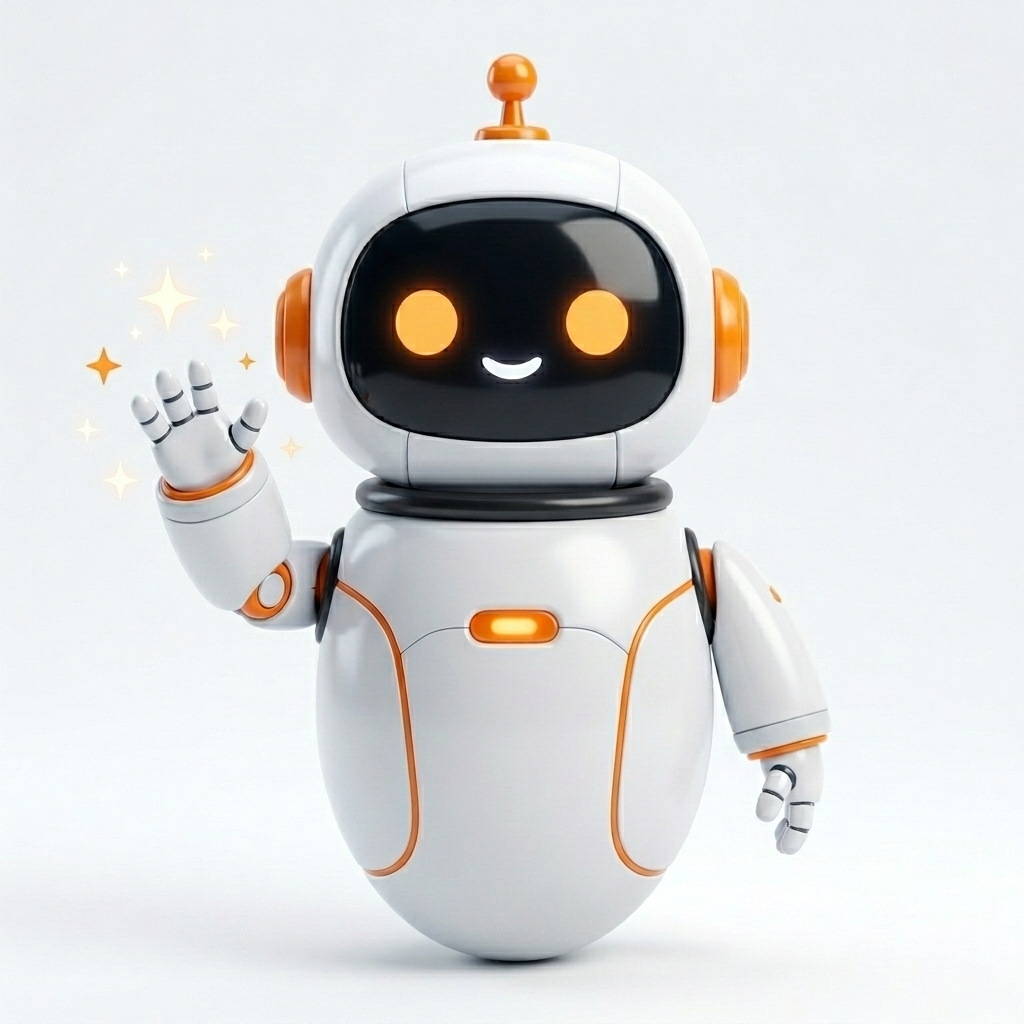
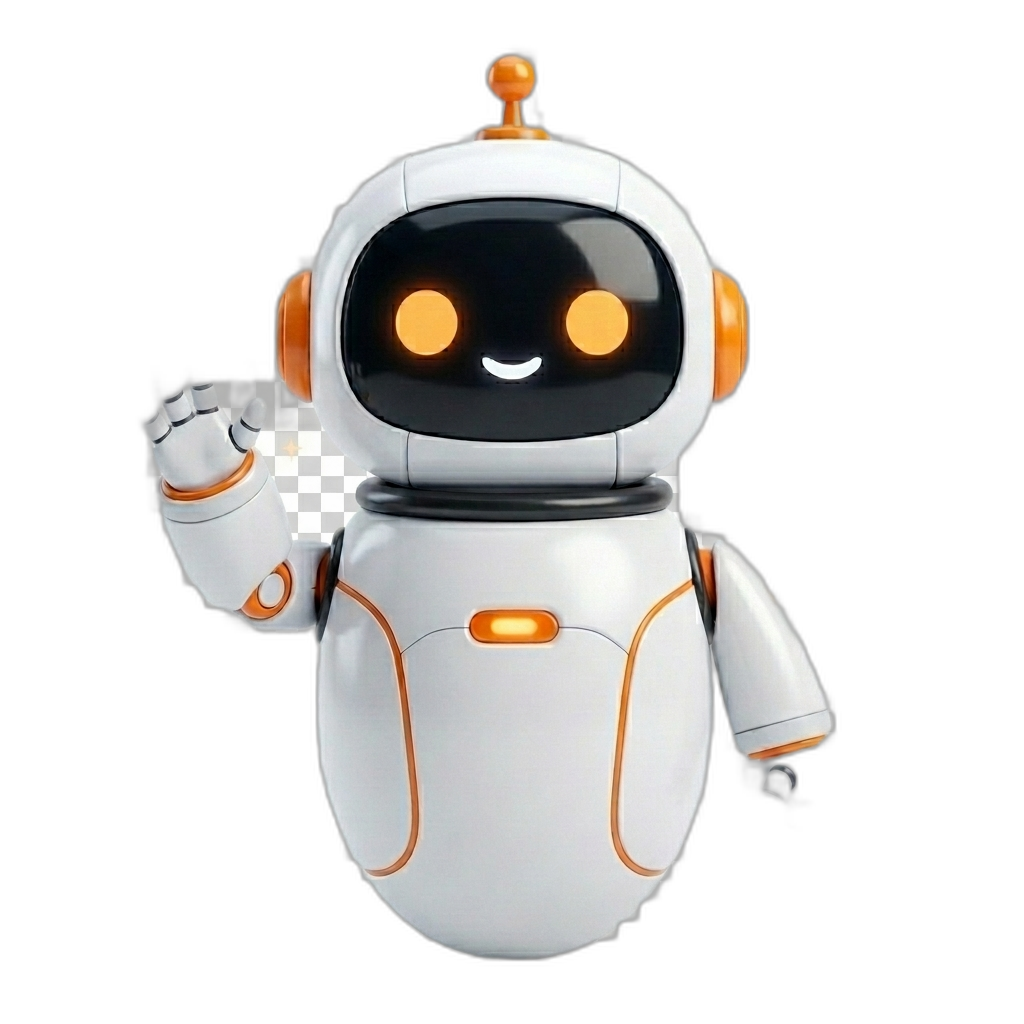
UI Refactor: Update Cambridge Cams layout and adjust Robot mascot position

diff --git a/src/app/page.tsx b/src/app/page.tsx
@@ -82,90 +82,124 @@ export default function Home() {
           <p className="mt-3 text-center text-[15px] text-[#5a6282]">Full access to all official Cambridge IELTS practice tests.</p>
 
           {/* Book covers */}
-          <div className="mt-10 flex items-end justify-center gap-3 md:gap-5 flex-wrap">
+          <div className="mt-10 flex items-center justify-center gap-3 md:gap-4 flex-wrap">
             {[
-              { num: "9", color: "dark" },
-              { num: "10", color: "dark" },
-              { num: "11", color: "dark" },
-              { num: "12", color: "dark" },
-              { num: "13", color: "dark" },
+              { num: "9", color: "#a78bfa" },
+              { num: "10", color: "#818cf8" },
+              { num: "11", color: "#c084fc" },
+              { num: "12", color: "#a78bfa" },
+              { num: "13", color: "#818cf8" },
             ].map((book) => (
               <div
                 key={book.num}
-                className="group relative w-[100px] md:w-[120px] aspect-[3/4] rounded-lg overflow-hidden cursor-pointer transition-transform duration-300 hover:scale-105 hover:-translate-y-1"
+                className="group relative w-[90px] md:w-[115px] aspect-[3/4.2] rounded-lg overflow-hidden cursor-pointer transition-transform duration-300 hover:scale-105 hover:-translate-y-1 shadow-[0_12px_28px_rgba(16,21,60,0.25)]"
                 style={{
-                  background: "linear-gradient(160deg, #1a1f4e 0%, #12163d 40%, #1e2460 100%)",
-                  boxShadow: "0 12px 28px rgba(16,21,60,0.35), inset -3px 0 6px rgba(255,255,255,0.05)",
+                  background: `linear-gradient(145deg, #111424 0%, #151932 60%, ${book.color}40 100%)`,
+                  border: "1px solid rgba(255,255,255,0.05)"
                 }}
               >
                 {/* Spine effect */}
-                <div className="absolute left-0 top-0 h-full w-[8px]" style={{ background: "linear-gradient(180deg, #080c28 0%, #131744 100%)" }} />
-                {/* Top overlay */}
-                <div className="absolute inset-x-0 top-0 h-[40%] bg-gradient-to-b from-black/30 to-transparent" />
+                <div className="absolute left-0 top-0 h-full w-[6px]" style={{ background: "linear-gradient(90deg, rgba(255,255,255,0.1) 0%, rgba(0,0,0,0.2) 100%)" }} />
+                
                 {/* Content */}
-                <div className="relative z-10 flex flex-col items-center justify-center h-full px-2 py-3">
-                  <div className="rounded border border-white/20 bg-black/25 px-2 py-0.5 text-[7px] md:text-[8px] font-bold tracking-[0.15em] text-white/80 mb-1">
-                    CAMBRIDGE
+                <div className="relative z-10 flex flex-col items-start justify-start h-full pl-3 pr-2 py-3 w-full">
+                  {/* Top: Logo and Shield */}
+                  <div className="flex justify-between w-full items-start mb-1.5">
+                    <div className="flex flex-col">
+                      <span className="text-[5px] md:text-[6px] font-bold tracking-[0.05em] text-white/90 leading-none">CAMBRIDGE</span>
+                      <span className="text-[4px] md:text-[5px] font-medium tracking-wide text-white/70 leading-none mt-0.5">UNIVERSITY PRESS</span>
+                    </div>
+                    {/* Gold Shield Placeholder */}
+                    <div className="w-2.5 h-3 bg-gradient-to-br from-[#f2d06b] to-[#b8860b] rounded-b-sm shadow-sm" />
                   </div>
-                  <div className="text-[8px] md:text-[9px] font-medium tracking-[0.1em] text-white/60">CAMBRIDGE</div>
-                  <div className="text-2xl md:text-3xl font-extrabold text-white leading-none mt-1">IELTS</div>
-                  <div className="text-xl md:text-2xl font-black text-white mt-1">{book.num}</div>
-                  <div className="text-[7px] md:text-[8px] font-semibold tracking-[0.08em] text-white/60 mt-2">ACADEMIC</div>
+                  
+                  <div className="text-[6.5px] md:text-[7.5px] font-medium tracking-[0.1em] text-white/90 mt-1">CAMBRIDGE</div>
+                  <div className="text-[22px] md:text-[26px] font-extrabold text-white leading-none mt-0.5 tracking-tight font-sans">IELTS</div>
+                  
+                  {/* Number */}
+                  <div className="text-[36px] md:text-[44px] font-normal mt-0.5 leading-none" style={{ color: book.color }}>
+                    {book.num}
+                  </div>
+                  
+                  {/* Academic */}
+                  <div className="text-[5px] md:text-[6px] font-semibold tracking-[0.1em] text-white/80 mt-auto mb-1">ACADEMIC</div>
+                  
+                  {/* Bottom right graphic */}
+                  <div className="absolute bottom-2 right-2 w-8 h-8 opacity-50 flex items-end justify-end">
+                    <svg viewBox="0 0 24 24" fill="none" stroke="currentColor" strokeWidth="1" className="w-full h-full" style={{ color: book.color }}>
+                       <circle cx="12" cy="12" r="8" strokeDasharray="2 2" />
+                       <circle cx="12" cy="12" r="4" />
+                       <path d="M12 2v4M12 18v4M2 12h4M18 12h4" />
+                    </svg>
+                  </div>
                 </div>
-                {/* Decorative circle */}
-                <div className="absolute bottom-3 right-2 w-6 h-6 rounded-full border border-white/10 opacity-40" />
               </div>
             ))}
 
             {/* Dots separator */}
-            <div className="flex items-center justify-center w-[40px] md:w-[50px] self-center">
-              <span className="text-2xl md:text-3xl font-bold text-[#8b90b0] tracking-[0.15em]">···</span>
+            <div className="flex items-center justify-center w-[30px] md:w-[40px] self-center">
+              <span className="text-xl md:text-2xl font-bold text-[#141c41] tracking-[0.15em]">...</span>
             </div>
 
             {/* Book 20 - Orange */}
             <div
-              className="group relative w-[100px] md:w-[120px] aspect-[3/4] rounded-lg overflow-hidden cursor-pointer transition-transform duration-300 hover:scale-105 hover:-translate-y-1"
+              className="group relative w-[90px] md:w-[115px] aspect-[3/4.2] rounded-lg overflow-hidden cursor-pointer transition-transform duration-300 hover:scale-105 hover:-translate-y-1 shadow-[0_12px_28px_rgba(230,90,16,0.25)]"
               style={{
-                background: "linear-gradient(160deg, #ff9f5a 0%, #ff7a2d 40%, #e85a10 100%)",
-                boxShadow: "0 12px 28px rgba(230,90,16,0.35), inset -3px 0 6px rgba(255,255,255,0.1)",
+                background: "linear-gradient(145deg, #ff8c42 0%, #f46217 50%, #d63d00 100%)",
+                border: "1px solid rgba(255,255,255,0.1)"
               }}
             >
-              <div className="absolute left-0 top-0 h-full w-[8px]" style={{ background: "linear-gradient(180deg, #c44e08 0%, #e06510 100%)" }} />
-              <div className="absolute inset-x-0 top-0 h-[40%] bg-gradient-to-b from-black/15 to-transparent" />
-              <div className="relative z-10 flex flex-col items-center justify-center h-full px-2 py-3">
-                <div className="rounded border border-white/30 bg-black/15 px-2 py-0.5 text-[7px] md:text-[8px] font-bold tracking-[0.15em] text-white/90 mb-1">
-                  CAMBRIDGE
+              <div className="absolute left-0 top-0 h-full w-[6px]" style={{ background: "linear-gradient(90deg, rgba(255,255,255,0.2) 0%, rgba(0,0,0,0.15) 100%)" }} />
+              <div className="relative z-10 flex flex-col items-start justify-start h-full pl-3 pr-2 py-3 w-full">
+                <div className="flex justify-between w-full items-start mb-1.5">
+                  <div className="flex flex-col">
+                    <span className="text-[5px] md:text-[6px] font-bold tracking-[0.05em] text-white/90 leading-none">CAMBRIDGE</span>
+                    <span className="text-[4px] md:text-[5px] font-medium tracking-wide text-white/80 leading-none mt-0.5">UNIVERSITY PRESS</span>
+                  </div>
+                  <div className="w-2.5 h-3 bg-gradient-to-br from-[#f2d06b] to-[#b8860b] rounded-b-sm shadow-sm" />
                 </div>
-                <div className="text-[8px] md:text-[9px] font-medium tracking-[0.1em] text-white/70">CAMBRIDGE</div>
-                <div className="text-2xl md:text-3xl font-extrabold text-white leading-none mt-1">IELTS</div>
-                <div className="text-xl md:text-2xl font-black text-white mt-1">20</div>
-                <div className="text-[7px] md:text-[8px] font-semibold tracking-[0.08em] text-white/70 mt-2">ACADEMIC</div>
+                
+                <div className="text-[6.5px] md:text-[7.5px] font-medium tracking-[0.1em] text-white/90 mt-1">CAMBRIDGE</div>
+                <div className="text-[22px] md:text-[26px] font-extrabold text-white leading-none mt-0.5 tracking-tight font-sans">IELTS</div>
+                
+                <div className="text-[36px] md:text-[44px] font-normal mt-0.5 leading-none text-white">
+                  20
+                </div>
+                
+                <div className="text-[5px] md:text-[6px] font-semibold tracking-[0.1em] text-white/90 mt-auto mb-1">ACADEMIC</div>
+                
+                <div className="absolute bottom-2 right-2 w-8 h-8 opacity-40 flex items-end justify-end">
+                  <svg viewBox="0 0 24 24" fill="none" stroke="white" strokeWidth="1" className="w-full h-full">
+                     <circle cx="12" cy="12" r="8" strokeDasharray="2 2" />
+                     <circle cx="12" cy="12" r="4" />
+                     <path d="M12 2v4M12 18v4M2 12h4M18 12h4" />
+                  </svg>
+                </div>
               </div>
             </div>
           </div>
 
           {/* Timeline progress bar */}
-          <div className="mt-10 flex items-center justify-center px-2 md:px-8">
+          <div className="mt-10 flex items-center justify-center w-full max-w-[800px] mx-auto px-2 md:px-4">
             {/* Number 9 circle */}
-            <div className="flex-shrink-0 w-10 h-10 rounded-full bg-[#1a1f4e] flex items-center justify-center text-white text-sm font-bold shadow-[0_4px_12px_rgba(26,31,78,0.4)]">
+            <div className="flex-shrink-0 w-8 h-8 md:w-10 md:h-10 rounded-full bg-[#7c3aed] flex items-center justify-center text-white text-sm md:text-base font-bold shadow-[0_4px_12px_rgba(124,58,237,0.4)]">
               9
             </div>
-            {/* Progress line */}
-            <div className="flex-1 h-[3px] mx-2 relative">
-              <div className="absolute inset-0 rounded-full bg-[#e0e3ef]" />
-              <div className="absolute left-0 top-0 h-full rounded-full w-[45%]" style={{ background: "linear-gradient(90deg, #1a1f4e, #3b4a9e)" }} />
-              {/* Dots on the line */}
-              <div className="absolute inset-0 flex items-center justify-between px-[2%]">
-                {Array.from({ length: 12 }).map((_, i) => (
-                  <div
-                    key={i}
-                    className={`w-[6px] h-[6px] rounded-full ${i < 5 ? "bg-[#1a1f4e]" : "bg-[#d0d3e2]"}`}
-                  />
-                ))}
-              </div>
-            </div>
+            
+            {/* Progress line with dots */}
+            <div 
+              className="flex-1 h-[6px] mx-2 md:mx-4" 
+              style={{
+                background: "linear-gradient(90deg, #7c3aed 0%, #ffab66 100%)",
+                WebkitMaskImage: "radial-gradient(circle, black 2.5px, transparent 2.5px), linear-gradient(black, black)",
+                WebkitMaskSize: "28px 6px, 100% 2px",
+                WebkitMaskPosition: "center, center",
+                WebkitMaskRepeat: "repeat-x, no-repeat",
+              }} 
+            />
+            
             {/* Number 20 circle */}
-            <div className="flex-shrink-0 w-10 h-10 rounded-full bg-[#ff7a00] flex items-center justify-center text-white text-sm font-bold shadow-[0_4px_12px_rgba(255,122,0,0.4)]">
+            <div className="flex-shrink-0 w-8 h-8 md:w-10 md:h-10 rounded-full bg-[#ff7a00] flex items-center justify-center text-white text-sm md:text-base font-bold shadow-[0_4px_12px_rgba(255,122,0,0.4)]">
               20
             </div>
           </div>
@@ -173,34 +207,34 @@ export default function Home() {
           {/* Feature badges */}
           <div className="mt-10 flex flex-wrap items-center justify-center gap-6 md:gap-10">
             <div className="flex items-center gap-2 text-[#4b5472]">
-              <svg className="w-5 h-5 text-[#5a6282]" fill="none" viewBox="0 0 24 24" stroke="currentColor" strokeWidth={2}>
+              <svg className="w-5 h-5 text-[#8b90b0]" fill="none" viewBox="0 0 24 24" stroke="currentColor" strokeWidth={1.5}>
                 <path strokeLinecap="round" strokeLinejoin="round" d="M9 12h6m-6 4h6m2 5H7a2 2 0 01-2-2V5a2 2 0 012-2h5.586a1 1 0 01.707.293l5.414 5.414a1 1 0 01.293.707V19a2 2 0 01-2 2z" />
               </svg>
-              <span className="text-sm font-semibold">Official Tests</span>
+              <span className="text-sm font-semibold text-[#141c41]">Official Tests</span>
             </div>
             <div className="flex items-center gap-2 text-[#4b5472]">
-              <svg className="w-5 h-5 text-[#5a6282]" fill="none" viewBox="0 0 24 24" stroke="currentColor" strokeWidth={2}>
+              <svg className="w-5 h-5 text-[#8b90b0]" fill="none" viewBox="0 0 24 24" stroke="currentColor" strokeWidth={1.5}>
                 <path strokeLinecap="round" strokeLinejoin="round" d="M12 8v4l3 3m6-3a9 9 0 11-18 0 9 9 0 0118 0z" />
               </svg>
-              <span className="text-sm font-semibold">Real Exam Experience</span>
+              <span className="text-sm font-semibold text-[#141c41]">Real Exam Experience</span>
             </div>
             <div className="flex items-center gap-2 text-[#4b5472]">
-              <svg className="w-5 h-5 text-[#5a6282]" fill="none" viewBox="0 0 24 24" stroke="currentColor" strokeWidth={2}>
+              <svg className="w-5 h-5 text-[#8b90b0]" fill="none" viewBox="0 0 24 24" stroke="currentColor" strokeWidth={1.5}>
                 <path strokeLinecap="round" strokeLinejoin="round" d="M10.325 4.317c.426-1.756 2.924-1.756 3.35 0a1.724 1.724 0 002.573 1.066c1.543-.94 3.31.826 2.37 2.37a1.724 1.724 0 001.066 2.573c1.756.426 1.756 2.924 0 3.35a1.724 1.724 0 00-1.066 2.573c.94 1.543-.826 3.31-2.37 2.37a1.724 1.724 0 00-2.573 1.066c-.426 1.756-2.924 1.756-3.35 0a1.724 1.724 0 00-2.573-1.066c-1.543.94-3.31-.826-2.37-2.37a1.724 1.724 0 00-1.066-2.573c-1.756-.426-1.756-2.924 0-3.35a1.724 1.724 0 001.066-2.573c-.94-1.543.826-3.31 2.37-2.37.996.608 2.296.07 2.572-1.065z" />
                 <path strokeLinecap="round" strokeLinejoin="round" d="M15 12a3 3 0 11-6 0 3 3 0 016 0z" />
               </svg>
-              <span className="text-sm font-semibold">AI Evaluation</span>
+              <span className="text-sm font-semibold text-[#141c41]">AI Evaluation</span>
             </div>
             <div className="flex items-center gap-2 text-[#4b5472]">
-              <svg className="w-5 h-5 text-[#5a6282]" fill="none" viewBox="0 0 24 24" stroke="currentColor" strokeWidth={2}>
+              <svg className="w-5 h-5 text-[#8b90b0]" fill="none" viewBox="0 0 24 24" stroke="currentColor" strokeWidth={1.5}>
                 <path strokeLinecap="round" strokeLinejoin="round" d="M14.828 14.828a4 4 0 01-5.656 0M9 10h.01M15 10h.01M21 12a9 9 0 11-18 0 9 9 0 0118 0z" />
               </svg>
-              <span className="text-sm font-semibold">Detailed Feedback</span>
+              <span className="text-sm font-semibold text-[#141c41]">Detailed Feedback</span>
             </div>
           </div>
         </section>
 
-        <section className="mb-6 grid gap-6 md:grid-cols-[1fr_1.6fr] items-center">
+        <section className="mb-6 grid gap-6 md:grid-cols-2 items-center">
           {/* Left side - Text content */}
           <div className="p-6 md:p-8">
             <h3 className="text-4xl md:text-5xl leading-[1.08] font-extrabold text-[#121a3c]">
@@ -290,7 +324,7 @@ export default function Home() {
                 {/* Main dashboard content */}
                 <div className="flex-1 p-5 relative">
                   {/* Robot mascot inside dashboard */}
-                  <div className="hidden md:block absolute right-0 top-1/2 -translate-y-[40%] w-[110px] h-[110px] z-20 pointer-events-none">
+                  <div className="hidden md:block absolute -right-10 top-1/2 -translate-y-[40%] w-[110px] h-[110px] z-20 pointer-events-none">
                     <img
                       src="/assets/robot-mascot.png"
                       alt="AI Robot Assistant"